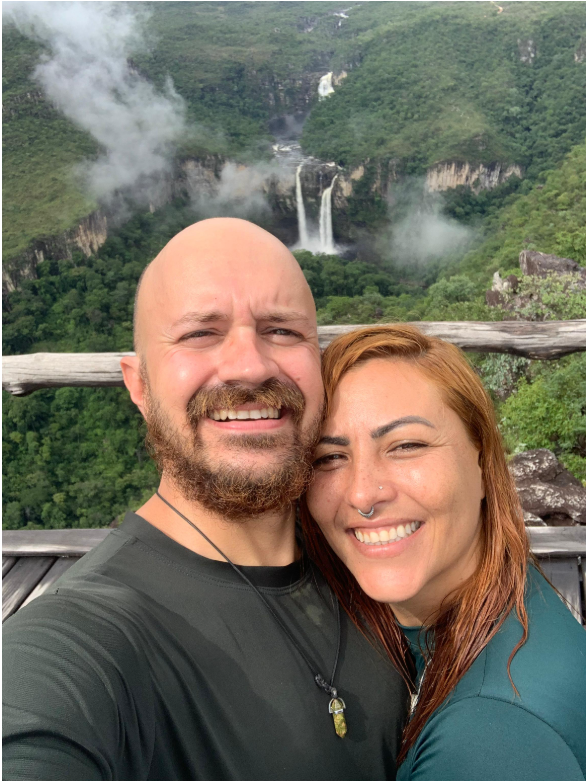
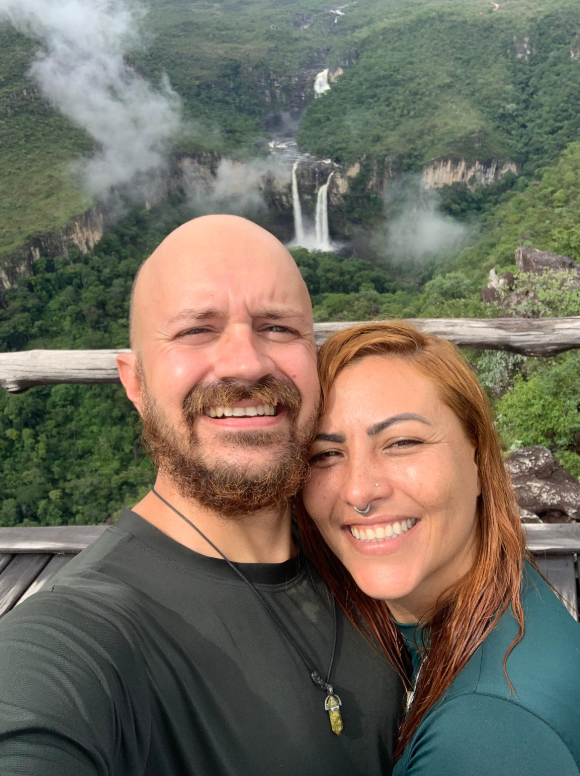
melhorado header

diff --git a/components/hero-section.tsx b/components/hero-section.tsx
@@ -1,34 +1,132 @@
 "use client"
 
 import { Button } from "@/components/ui/button"
-import { ArrowRight } from "lucide-react"
+import { ArrowRight, Play, Star, MapPin } from "lucide-react"
 import { useLanguage } from "@/contexts/language-context"
 
 export function HeroSection() {
   const { t } = useLanguage()
   
   return (
-    <section id="home" className="bg-red-100 relative min-h-screen flex items-center justify-center overflow-hidden">
-      <img
-        src="/leandro_thais.png"
-        alt="Hero Image"
-        className="absolute inset-0 w-full h-full object-contain"
-      />
+    <section id="home" className="relative min-h-screen flex items-center justify-center overflow-hidden bg-gradient-to-br bg-black">
+      {/* Background Image with Overlay */}
+      <div className="absolute inset-0">
+        <img
+          src="https://lifetoviagens.com/wp-content/uploads/2024/09/Design-sem-nome.gif"
+          alt="Thays e Leandro - Guias Profissionais"
+          className="w-full h-full object-contain"
+        />
+        <div className="absolute inset-0 bg-gradient-to-r from-black/60 via-black/30 to-transparent"></div>
+        <div className="absolute inset-0 bg-gradient-to-t from-black/40 via-transparent to-transparent"></div>
+      </div>
 
-      <div className="relative z-10 text-center text-white px-4 sm:px-6 lg:px-8 max-w-4xl mx-auto">
-        <h1 className="text-4xl sm:text-5xl lg:text-6xl font-bold mb-6 text-balance">
-          {t.hero.title}
-        </h1>
-        <p className="text-xl sm:text-2xl mb-8 text-pretty max-w-2xl mx-auto leading-relaxed">
-          {t.hero.subtitle}
-        </p>
-        <Button
-          size="lg"
-          className="bg-primary hover:bg-primary/90 text-primary-foreground px-8 py-4 text-lg rounded-full shadow-lg hover:shadow-xl transition-all duration-300 group"
-        >
-          {t.hero.ctaButton}
-          <ArrowRight className="ml-2 h-5 w-5 group-hover:translate-x-1 transition-transform" />
-        </Button>
+      {/* Animated Background Elements */}
+      <div className="absolute inset-0 overflow-hidden pointer-events-none">
+        <div className="absolute top-20 left-10 w-2 h-2 bg-emerald-400 rounded-full animate-pulse opacity-60"></div>
+        <div className="absolute top-40 right-20 w-3 h-3 bg-cyan-400 rounded-full animate-bounce opacity-40"></div>
+        <div className="absolute bottom-32 left-16 w-2 h-2 bg-blue-400 rounded-full animate-ping opacity-50"></div>
+      </div>
+
+      {/* Main Content */}
+      <div className="relative z-10 container mx-auto px-4 sm:px-6 lg:px-8">
+        <div className="grid lg:grid-cols-2 gap-12 items-center">
+          {/* Left Content */}
+          <div className="text-white space-y-8">
+
+            {/* Main Heading */}
+            <div className="space-y-4">
+              <h1 className="text-4xl sm:text-5xl lg:text-6xl xl:text-7xl font-bold leading-tight">
+                <span className="block">{t.hero.title.split(' ').slice(0, 2).join(' ')}</span>
+                <span className="block bg-gradient-to-r from-emerald-400 via-cyan-400 to-blue-400 bg-clip-text text-transparent">
+                  {t.hero.title.split(' ').slice(2).join(' ')}
+                </span>
+              </h1>
+              
+              <p className="text-xl sm:text-2xl text-gray-200 leading-relaxed max-w-lg">
+                {t.hero.subtitle}
+              </p>
+            </div>
+
+            {/* Stats */}
+            <div className="flex flex-wrap gap-8">
+              <div className="text-center">
+                <div className="text-3xl font-bold text-emerald-400">3+</div>
+                <div className="text-sm text-gray-300">Anos de Experiência</div>
+              </div>
+              <div className="text-center">
+                <div className="text-3xl font-bold text-cyan-400">500+</div>
+                <div className="text-sm text-gray-300">Aventuras Realizadas</div>
+              </div>
+              <div className="text-center">
+                <div className="text-3xl font-bold text-blue-400">100%</div>
+                <div className="text-sm text-gray-300">Satisfação</div>
+              </div>
+            </div>
+
+            {/* CTA Buttons */}
+            <div className="flex flex-col sm:flex-row gap-4 pt-4">
+              <Button
+                size="lg"
+                className="bg-gradient-to-r from-emerald-500 to-cyan-500 hover:from-emerald-600 hover:to-cyan-600 text-white px-8 py-4 text-lg rounded-full shadow-xl hover:shadow-2xl transition-all duration-300 group border-0"
+              >
+                {t.hero.ctaButton}
+                <ArrowRight className="ml-2 h-5 w-5 group-hover:translate-x-1 transition-transform" />
+              </Button>
+            </div>
+
+            {/* Location Info */}
+            <div className="flex items-center gap-2 text-gray-300">
+              <MapPin className="h-4 w-4 text-emerald-400" />
+              <span className="text-sm">Alto Paraíso, Chapada dos Veadeiros</span>
+            </div>
+          </div>
+
+          {/* Right Content - Feature Cards */}
+          <div className="hidden lg:block space-y-4">
+            <div className="bg-white/10 backdrop-blur-md rounded-2xl p-6 border border-white/20 shadow-xl">
+              <div className="flex items-center gap-4">
+                <div className="w-12 h-12 bg-emerald-500 rounded-full flex items-center justify-center">
+                  <Star className="h-6 w-6 text-white fill-current" />
+                </div>
+                <div>
+                  <h3 className="text-white font-semibold">Experiência Única</h3>
+                  <p className="text-gray-300 text-sm">Aventuras personalizadas para cada viajante</p>
+                </div>
+              </div>
+            </div>
+
+            <div className="bg-white/10 backdrop-blur-md rounded-2xl p-6 border border-white/20 shadow-xl">
+              <div className="flex items-center gap-4">
+                <div className="w-12 h-12 bg-cyan-500 rounded-full flex items-center justify-center">
+                  <MapPin className="h-6 w-6 text-white" />
+                </div>
+                <div>
+                  <h3 className="text-white font-semibold">Guias Locais</h3>
+                  <p className="text-gray-300 text-sm">Conhecimento profundo da região</p>
+                </div>
+              </div>
+            </div>
+
+            <div className="bg-white/10 backdrop-blur-md rounded-2xl p-6 border border-white/20 shadow-xl">
+              <div className="flex items-center gap-4">
+                <div className="w-12 h-12 bg-blue-500 rounded-full flex items-center justify-center">
+                  <ArrowRight className="h-6 w-6 text-white" />
+                </div>
+                <div>
+                  <h3 className="text-white font-semibold">Segurança Total</h3>
+                  <p className="text-gray-300 text-sm">Equipamentos e treinamento certificados</p>
+                </div>
+              </div>
+            </div>
+          </div>
+        </div>
+      </div>
+
+      {/* Scroll Indicator */}
+      <div className="absolute bottom-8 left-1/2 transform -translate-x-1/2 animate-bounce">
+        <div className="w-6 h-10 border-2 border-white/30 rounded-full flex justify-center">
+          <div className="w-1 h-3 bg-white/60 rounded-full mt-2 animate-pulse"></div>
+        </div>
       </div>
     </section>
   )
